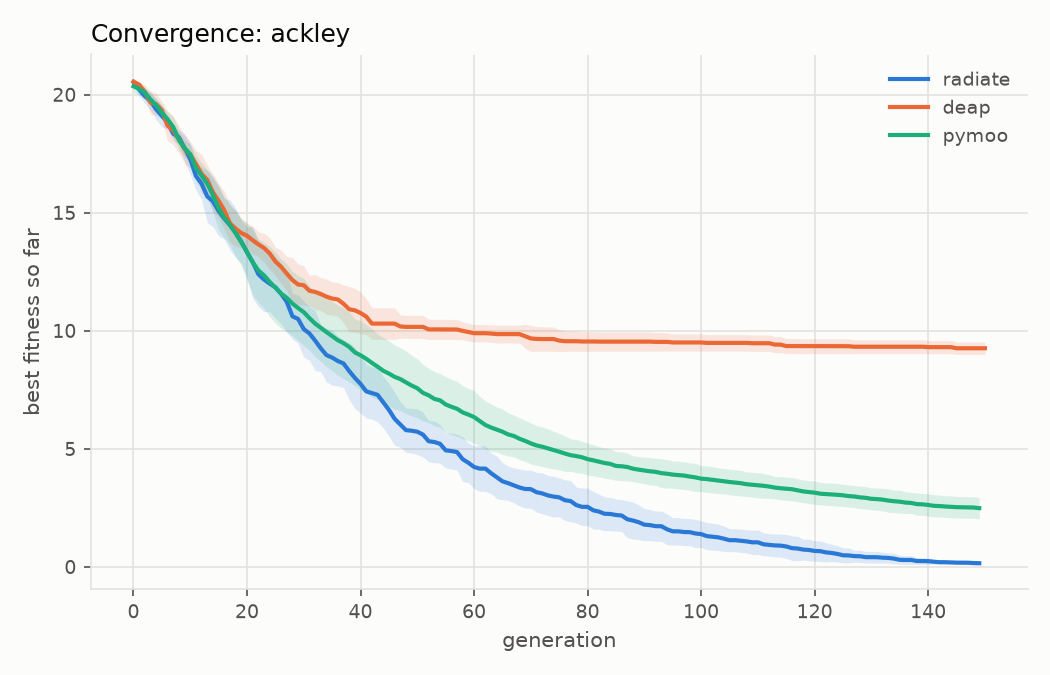
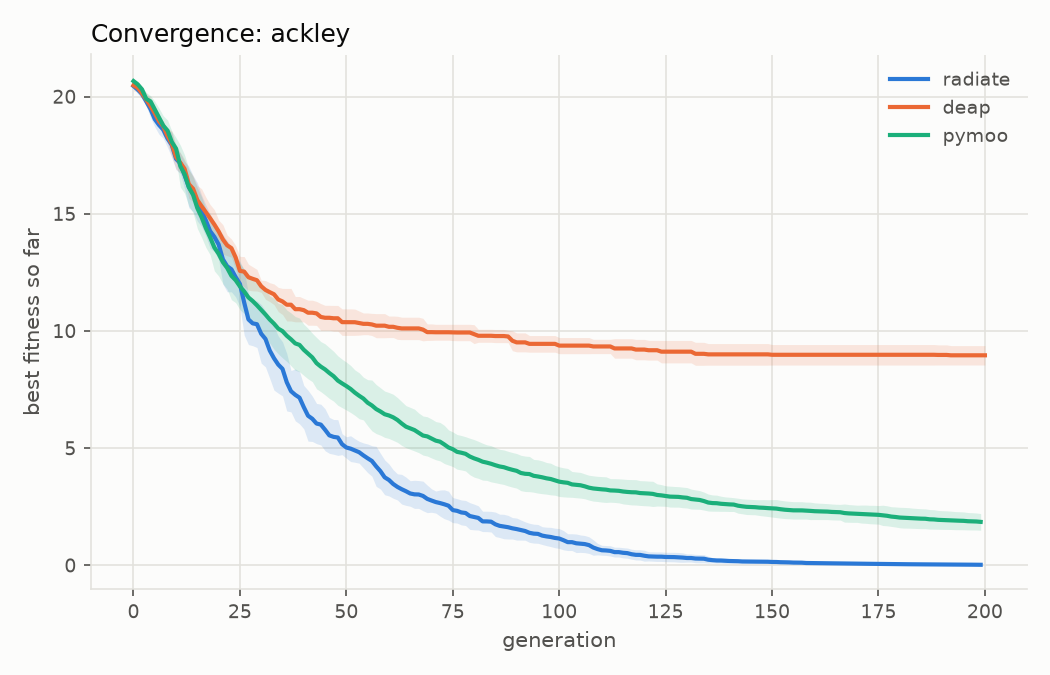
benchmark docs

diff --git a/docs/assets/benches/summary.md b/docs/assets/benches/summary.md
@@ -1,32 +1,32 @@
 | problem    | library   |   best_mean |   best_std |   time_mean_s |   time_std_s |   n_trials |
 |:-----------|:----------|------------:|-----------:|--------------:|-------------:|-----------:|
-| ackley     | radiate   |      0.1552 |     0.0815 |        0.0584 |       0.0006 |         10 |
-| ackley     | deap      |      9.2587 |     0.2773 |        0.2880 |       0.0007 |         10 |
-| ackley     | pymoo     |      2.4871 |     0.4761 |        0.7713 |       0.0090 |         10 |
-| dtlz2      | radiate   |      0.2531 |     0.0612 |        0.0767 |       0.0009 |         10 |
-| dtlz2      | deap      |      0.6995 |     0.0060 |        1.3923 |       0.0055 |         10 |
-| dtlz2      | pymoo     |      0.7142 |     0.0065 |        0.4701 |       0.0050 |         10 |
-| knapsack   | radiate   |   2087.7000 |     3.8601 |        0.0502 |       0.0004 |         10 |
-| knapsack   | deap      |   1955.3000 |    20.2432 |        0.2193 |       0.0006 |         10 |
-| knapsack   | pymoo     |   2090.0000 |     0.0000 |        1.4092 |       0.0190 |         10 |
-| nqueens    | radiate   |      1.3000 |     0.4830 |        0.1306 |       0.0028 |         10 |
-| nqueens    | deap      |      2.0000 |     0.4714 |        0.2982 |       0.0004 |         10 |
-| nqueens    | pymoo     |      1.6000 |     0.9661 |        1.1230 |       0.0074 |         10 |
-| rastrigin  | radiate   |     16.1386 |     5.1287 |        0.0499 |       0.0003 |         10 |
-| rastrigin  | deap      |    195.1086 |    10.2669 |        0.2777 |       0.0007 |         10 |
-| rastrigin  | pymoo     |     16.9559 |     3.8604 |        0.7709 |       0.0074 |         10 |
-| rosenbrock | radiate   |     59.1886 |    32.2894 |        0.0576 |       0.0002 |         10 |
-| rosenbrock | deap      |    114.9675 |    12.8713 |        0.2857 |       0.0004 |         10 |
-| rosenbrock | pymoo     |    100.6742 |    33.2379 |        0.7627 |       0.0057 |         10 |
-| sphere     | radiate   |      0.0311 |     0.0118 |        0.0284 |       0.0002 |         10 |
-| sphere     | deap      |      3.9769 |     0.5974 |        0.2498 |       0.0008 |         10 |
-| sphere     | pymoo     |      0.0735 |     0.0387 |        0.7634 |       0.0083 |         10 |
-| tsp        | radiate   |    523.0868 |    25.9511 |        0.0944 |       0.0005 |         10 |
-| tsp        | deap      |    987.7789 |    14.4082 |        0.2621 |       0.0004 |         10 |
-| tsp        | pymoo     |    581.9415 |    37.8617 |        0.9086 |       0.0121 |         10 |
-| zdt1       | radiate   |      0.7864 |     0.0097 |        0.0491 |       0.0005 |         10 |
-| zdt1       | deap      |      0.8606 |     0.0012 |        1.4849 |       0.0035 |         10 |
-| zdt1       | pymoo     |      0.8313 |     0.0136 |        0.4636 |       0.0156 |         10 |
-| zdt3       | radiate   |      1.1739 |     0.0214 |        0.0530 |       0.0002 |         10 |
-| zdt3       | deap      |      1.3162 |     0.0014 |        1.4915 |       0.0050 |         10 |
-| zdt3       | pymoo     |      1.2761 |     0.0151 |        0.4434 |       0.0026 |         10 |
+| ackley     | radiate   |      0.0207 |     0.0106 |        0.0779 |       0.0003 |         10 |
+| ackley     | deap      |      8.9594 |     0.4361 |        0.3870 |       0.0052 |         10 |
+| ackley     | pymoo     |      1.8515 |     0.3751 |        1.0341 |       0.0104 |         10 |
+| dtlz2      | radiate   |      0.2990 |     0.0436 |        0.1021 |       0.0010 |         10 |
+| dtlz2      | deap      |      0.6974 |     0.0061 |        1.8748 |       0.0068 |         10 |
+| dtlz2      | pymoo     |      0.7111 |     0.0056 |        0.6313 |       0.0048 |         10 |
+| knapsack   | radiate   |   2090.0000 |     0.0000 |        0.0677 |       0.0005 |         10 |
+| knapsack   | deap      |   1982.4000 |    35.0498 |        0.2929 |       0.0008 |         10 |
+| knapsack   | pymoo     |   2090.0000 |     0.0000 |        1.9133 |       0.0227 |         10 |
+| nqueens    | radiate   |      1.2000 |     0.6325 |        0.1742 |       0.0013 |         10 |
+| nqueens    | deap      |      2.0000 |     0.4714 |        0.3977 |       0.0011 |         10 |
+| nqueens    | pymoo     |      1.9000 |     0.8756 |        1.5135 |       0.0121 |         10 |
+| rastrigin  | radiate   |     10.8435 |     4.8314 |        0.0671 |       0.0003 |         10 |
+| rastrigin  | deap      |    182.1082 |    14.1792 |        0.3711 |       0.0008 |         10 |
+| rastrigin  | pymoo     |     14.1199 |     3.7540 |        1.0317 |       0.0071 |         10 |
+| rosenbrock | radiate   |     33.4129 |    14.9997 |        0.0770 |       0.0002 |         10 |
+| rosenbrock | deap      |    106.0411 |     4.8883 |        0.3822 |       0.0009 |         10 |
+| rosenbrock | pymoo     |     90.1068 |    23.4850 |        1.0255 |       0.0077 |         10 |
+| sphere     | radiate   |      0.0043 |     0.0019 |        0.0379 |       0.0003 |         10 |
+| sphere     | deap      |      3.9225 |     0.3664 |        0.3370 |       0.0090 |         10 |
+| sphere     | pymoo     |      0.0292 |     0.0061 |        1.0251 |       0.0092 |         10 |
+| tsp        | radiate   |    499.1356 |    12.1659 |        0.1267 |       0.0009 |         10 |
+| tsp        | deap      |    975.7242 |    21.3226 |        0.3498 |       0.0007 |         10 |
+| tsp        | pymoo     |    538.5293 |    54.1085 |        1.2355 |       0.0135 |         10 |
+| zdt1       | radiate   |      0.7949 |     0.0105 |        0.0665 |       0.0007 |         10 |
+| zdt1       | deap      |      0.8658 |     0.0006 |        1.9904 |       0.0068 |         10 |
+| zdt1       | pymoo     |      0.8568 |     0.0056 |        0.5945 |       0.0050 |         10 |
+| zdt3       | radiate   |      1.2043 |     0.0248 |        0.0713 |       0.0006 |         10 |
+| zdt3       | deap      |      1.3227 |     0.0010 |        1.9960 |       0.0055 |         10 |
+| zdt3       | pymoo     |      1.3079 |     0.0044 |        0.5942 |       0.0041 |         10 |

diff --git a/docs/source/misc/benches.md b/docs/source/misc/benches.md
@@ -3,7 +3,13 @@
 
     As of `9/13/26` this is a new section and is still being developed.
 
-I think it's useful to look through comparisons between `radiate` and other libraries that share this space in terms of performance and efficiency. All benchmarks and report generation are run in `python`, the code that created the below charts and comparisons can be found in the [raidate-benchmarks](https://github.com/pkalivas/radiate-benchmarks) repository on github. A majority of these benchmarks compare `radiate` against [PyMoo](https://pymoo.org) and [DEAP](https://deap.readthedocs.io).
+I think it's useful to look through comparisons between `radiate` and other libraries that share this space in terms of performance and efficiency. All benchmarks are run in python on a `2020 M1 Pro MacBook Pro`. The code that created the below charts and comparisons can be found in the [raidate-benchmarks](https://github.com/pkalivas/radiate-benchmarks) repository on github. 
+
+In the benchmark's project, we compare the performance and efficiency of `radiate` against other libraries like [PyMoo](https://pymoo.org) and [DEAP](https://deap.readthedocs.io) across various optimization problems. Below are the results of these simple problems, showing both the convergence quality & speed of the different libraries. Each library x problem combination is run 10 times, the best/worst/mean results & wall-clock times are recorded.
+
+<figure markdown="span">
+    ![Speed Summary](../../assets/benches/heatmap_overview.png){ width="850" }
+</figure>
 
 ## Ackley
 
@@ -28,3 +34,4 @@ Discrete optimization using `usize` precision integers & numpy arrays. `Radiate`
 <figure markdown="span">
     ![N-Queens](../../assets/benches/convergence_nqueens.png){ width="600" }
 </figure>
+
